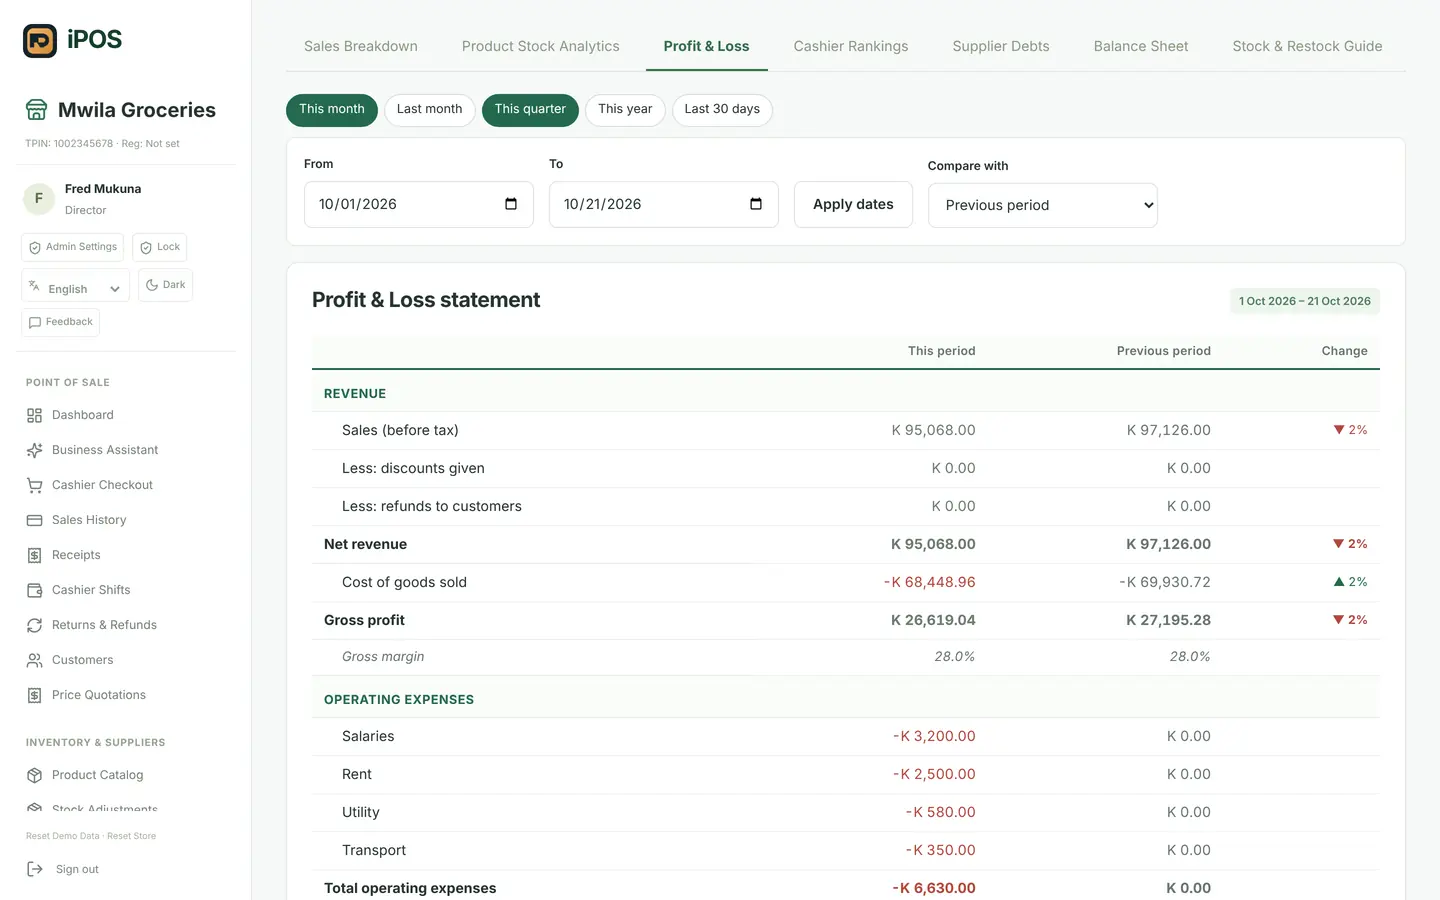
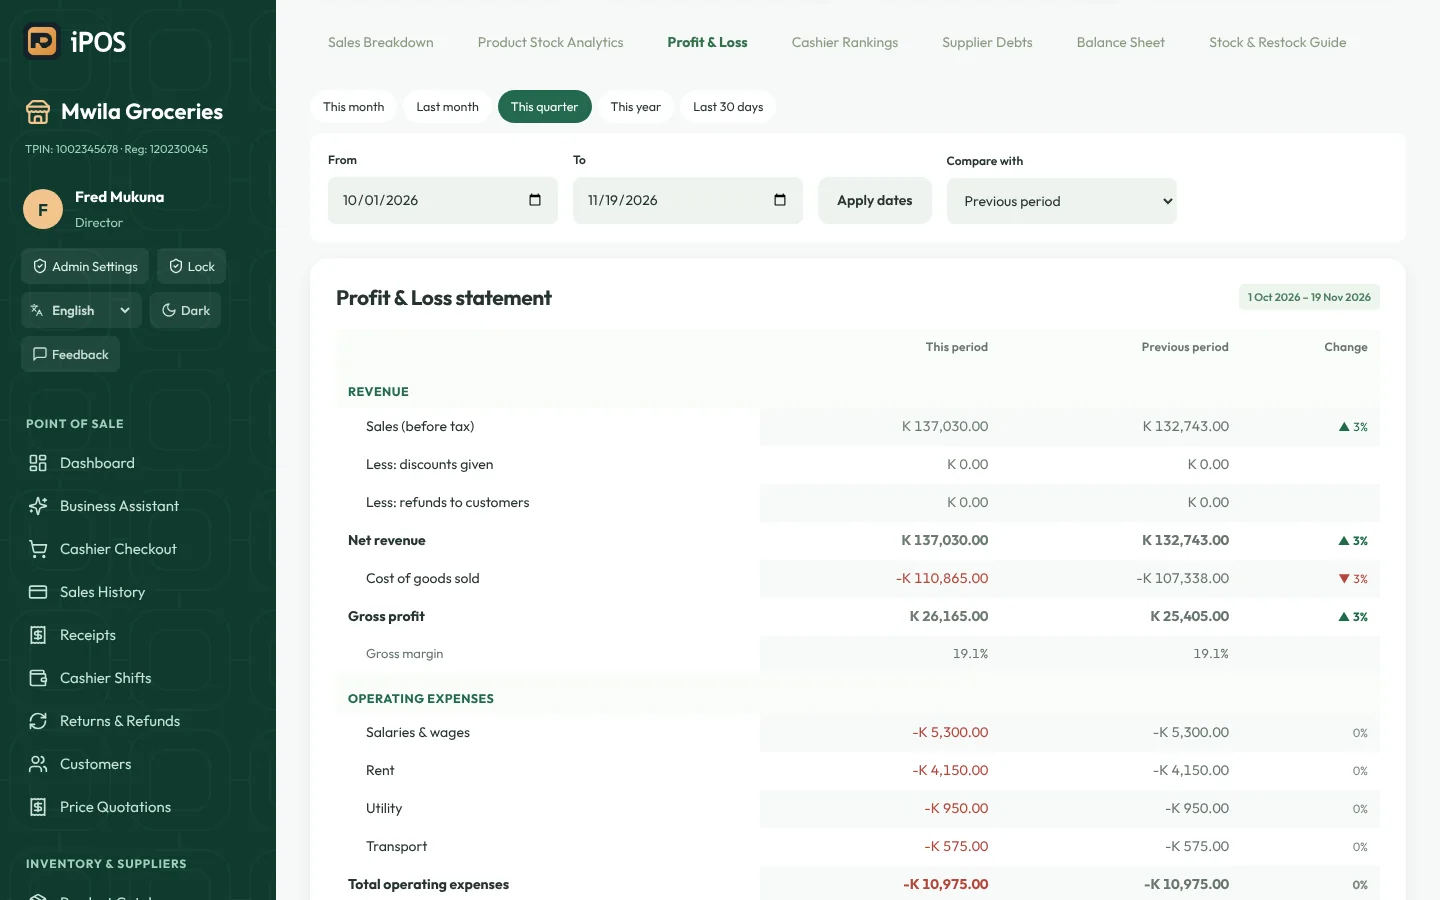
Front page: retake app screenshots in the new design; remove unused old screenshots
Claude-Session: https://claude.ai/code/session_015pRSoPJQ6f1ThY72i8mJzF

diff --git a/src/Landing.jsx b/src/Landing.jsx
@@ -19,9 +19,9 @@ const TRUST = [
 ];
 
 const STEPS = [
-  ['/landing/phone-signup.webp', 'Register your business', 'Your shop name, TPIN and phone. Confirm your email and your workspace is ready.'],
-  ['/landing/phone-staff.webp', 'Add products and staff', 'Import your stock list from Excel and invite your cashiers and supervisors.'],
-  ['/landing/phone-pay.webp', 'Start selling', 'Scan, take payment and watch your profit grow on the dashboard.'],
+  ['/landing/phone-signup.webp?v=2', 'Register your business', 'Your shop name, TPIN and phone. Confirm your email and your workspace is ready.'],
+  ['/landing/phone-staff.webp?v=2', 'Add products and staff', 'Import your stock list from Excel and invite your cashiers and supervisors.'],
+  ['/landing/phone-pay.webp?v=2', 'Start selling', 'Scan, take payment and watch your profit grow on the dashboard.'],
 ];
 
 const SHOPS = [
@@ -181,7 +181,7 @@ export default function Landing({ auth }) {
             <div className="lp-wrap lp-feat-grid flip">
               <div className="lp-feat-art lp-phone-stage">
                 <span className="lp-tag">Running out · 10 items</span>
-                <div className="lp-phone"><img src="/landing/phone-dashboard.webp" alt="The iPOS dashboard on a phone showing today’s sales and 10 items running out" width="540" height="1169" loading="lazy" /></div>
+                <div className="lp-phone"><img src="/landing/phone-dashboard.webp?v=2" alt="The iPOS dashboard on a phone showing today’s sales and 10 items running out" width="540" height="1169" loading="lazy" /></div>
               </div>
               <div>
                 <span className="lp-eyebrow dark">Stock</span>
@@ -197,7 +197,7 @@ export default function Landing({ auth }) {
 
           <section className="lp-feat">
             <div className="lp-wrap lp-feat-grid">
-              <div className="lp-feat-art lp-screen"><img src="/landing/05-profit-loss.webp" alt="The iPOS Profit and Loss statement for this quarter" width="1440" height="900" loading="lazy" /></div>
+              <div className="lp-feat-art lp-screen"><img src="/landing/05-profit-loss.webp?v=2" alt="The iPOS Profit and Loss statement for this quarter" width="1440" height="900" loading="lazy" /></div>
               <div>
                 <span className="lp-eyebrow dark">Profit and accounts</span>
                 <h2 className="lp-h2 left">Your books, done for you</h2>
